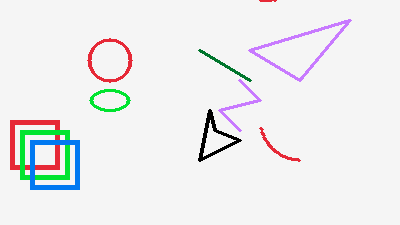
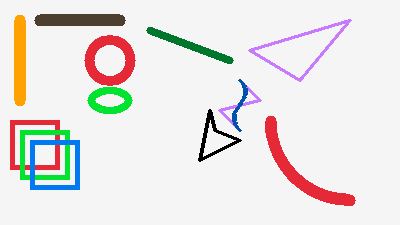
Update some of the thic examples

diff --git a/examples/pntr_examples_thick.h b/examples/pntr_examples_thick.h
@@ -1,24 +1,18 @@
 void pntr_examples_thick() {
     pntr_image* canvas = pntr_gen_image_color(400, 225, PNTR_RAYWHITE);
 
-    // Define some colors
-    pntr_color lightGreen = PNTR_GREEN;
-    lightGreen.rgba.a = 180;
-    pntr_color lightBlue = PNTR_BLUE;
-    lightBlue.rgba.a = 180;
-
     // Rectangles
     pntr_draw_rectangle_thick(canvas, 10, 120, 50, 50, 5, PNTR_RED);
     pntr_draw_rectangle_thick(canvas, 20, 130, 50, 50, 5, PNTR_GREEN);
     pntr_draw_rectangle_thick(canvas, 30, 140, 50, 50, 5, PNTR_BLUE);
 
     // Circle
-    pntr_draw_circle_thick(canvas, 110, 60, 21, 5, PNTR_RED);
+    pntr_draw_circle_thick(canvas, 110, 60, 21, 10, PNTR_RED);
 
-    pntr_draw_ellipse_thick(canvas, 110, 100, 20, 10, 5, PNTR_GREEN);
+    pntr_draw_ellipse_thick(canvas, 110, 100, 20, 10, 8, PNTR_GREEN);
 
     // Line
-    pntr_draw_line_thick(canvas, 200, 50, 250, 80, 5, PNTR_DARKGREEN);
+    pntr_draw_line_thick(canvas, 150, 30, 230, 60, 8, PNTR_DARKGREEN);
 
     // Triangle
     pntr_draw_triangle_thick(canvas,
@@ -35,8 +29,8 @@ void pntr_examples_thick() {
     pntr_draw_polygon_thick(canvas, points, 4, 5, PNTR_BLACK);
 
     // Arc
-    int radius = 40;
-    pntr_draw_arc_thick(canvas, 300, 120, radius, 90.0f, 180.0f, radius *1.5f, 5, PNTR_RED);
+    int radius = 80;
+    pntr_draw_arc_thick(canvas, 350, 120, radius, 90.0f, 180.0f, radius * 1.5f, 12, PNTR_RED);
 
     // Polyline
     points[0] = PNTR_CLITERAL(pntr_vector) {240, 80};
@@ -46,7 +40,13 @@ void pntr_examples_thick() {
     pntr_draw_polyline_thick(canvas, points, 4, 5, PNTR_PURPLE);
 
     // Line Curve
-    // pntr_draw_line_curve_thick(canvas, points[0], points[1], points[2], points[3], 40, 5, PNTR_DARKBLUE);
+    pntr_draw_line_curve_thick(canvas, points[0], points[1], points[2], points[3], 40, 5, PNTR_DARKBLUE);
+
+    // Vertical line
+    pntr_draw_line_vertical_thick(canvas, 20, 20, 80, 12, PNTR_ORANGE);
+
+    // Horizontal line
+    pntr_draw_line_horizontal_thick(canvas, 40, 20, 80, 12, PNTR_DARKBROWN);
 
     pntr_save_image(canvas, "pntr_examples_thick.png");
     pntr_unload_image(canvas);

diff --git a/examples/pntr_examples.c b/examples/pntr_examples.c
@@ -30,6 +30,10 @@
  * ## Sprite
  * @include pntr_examples_sprite.h
  * @image html pntr_examples_sprite.png
+ *
+ * ## Thick
+ * @include pntr_examples_thick.h
+ * @image html pntr_examples_thick.png
  */
 
 #ifndef _DOXYGEN_
